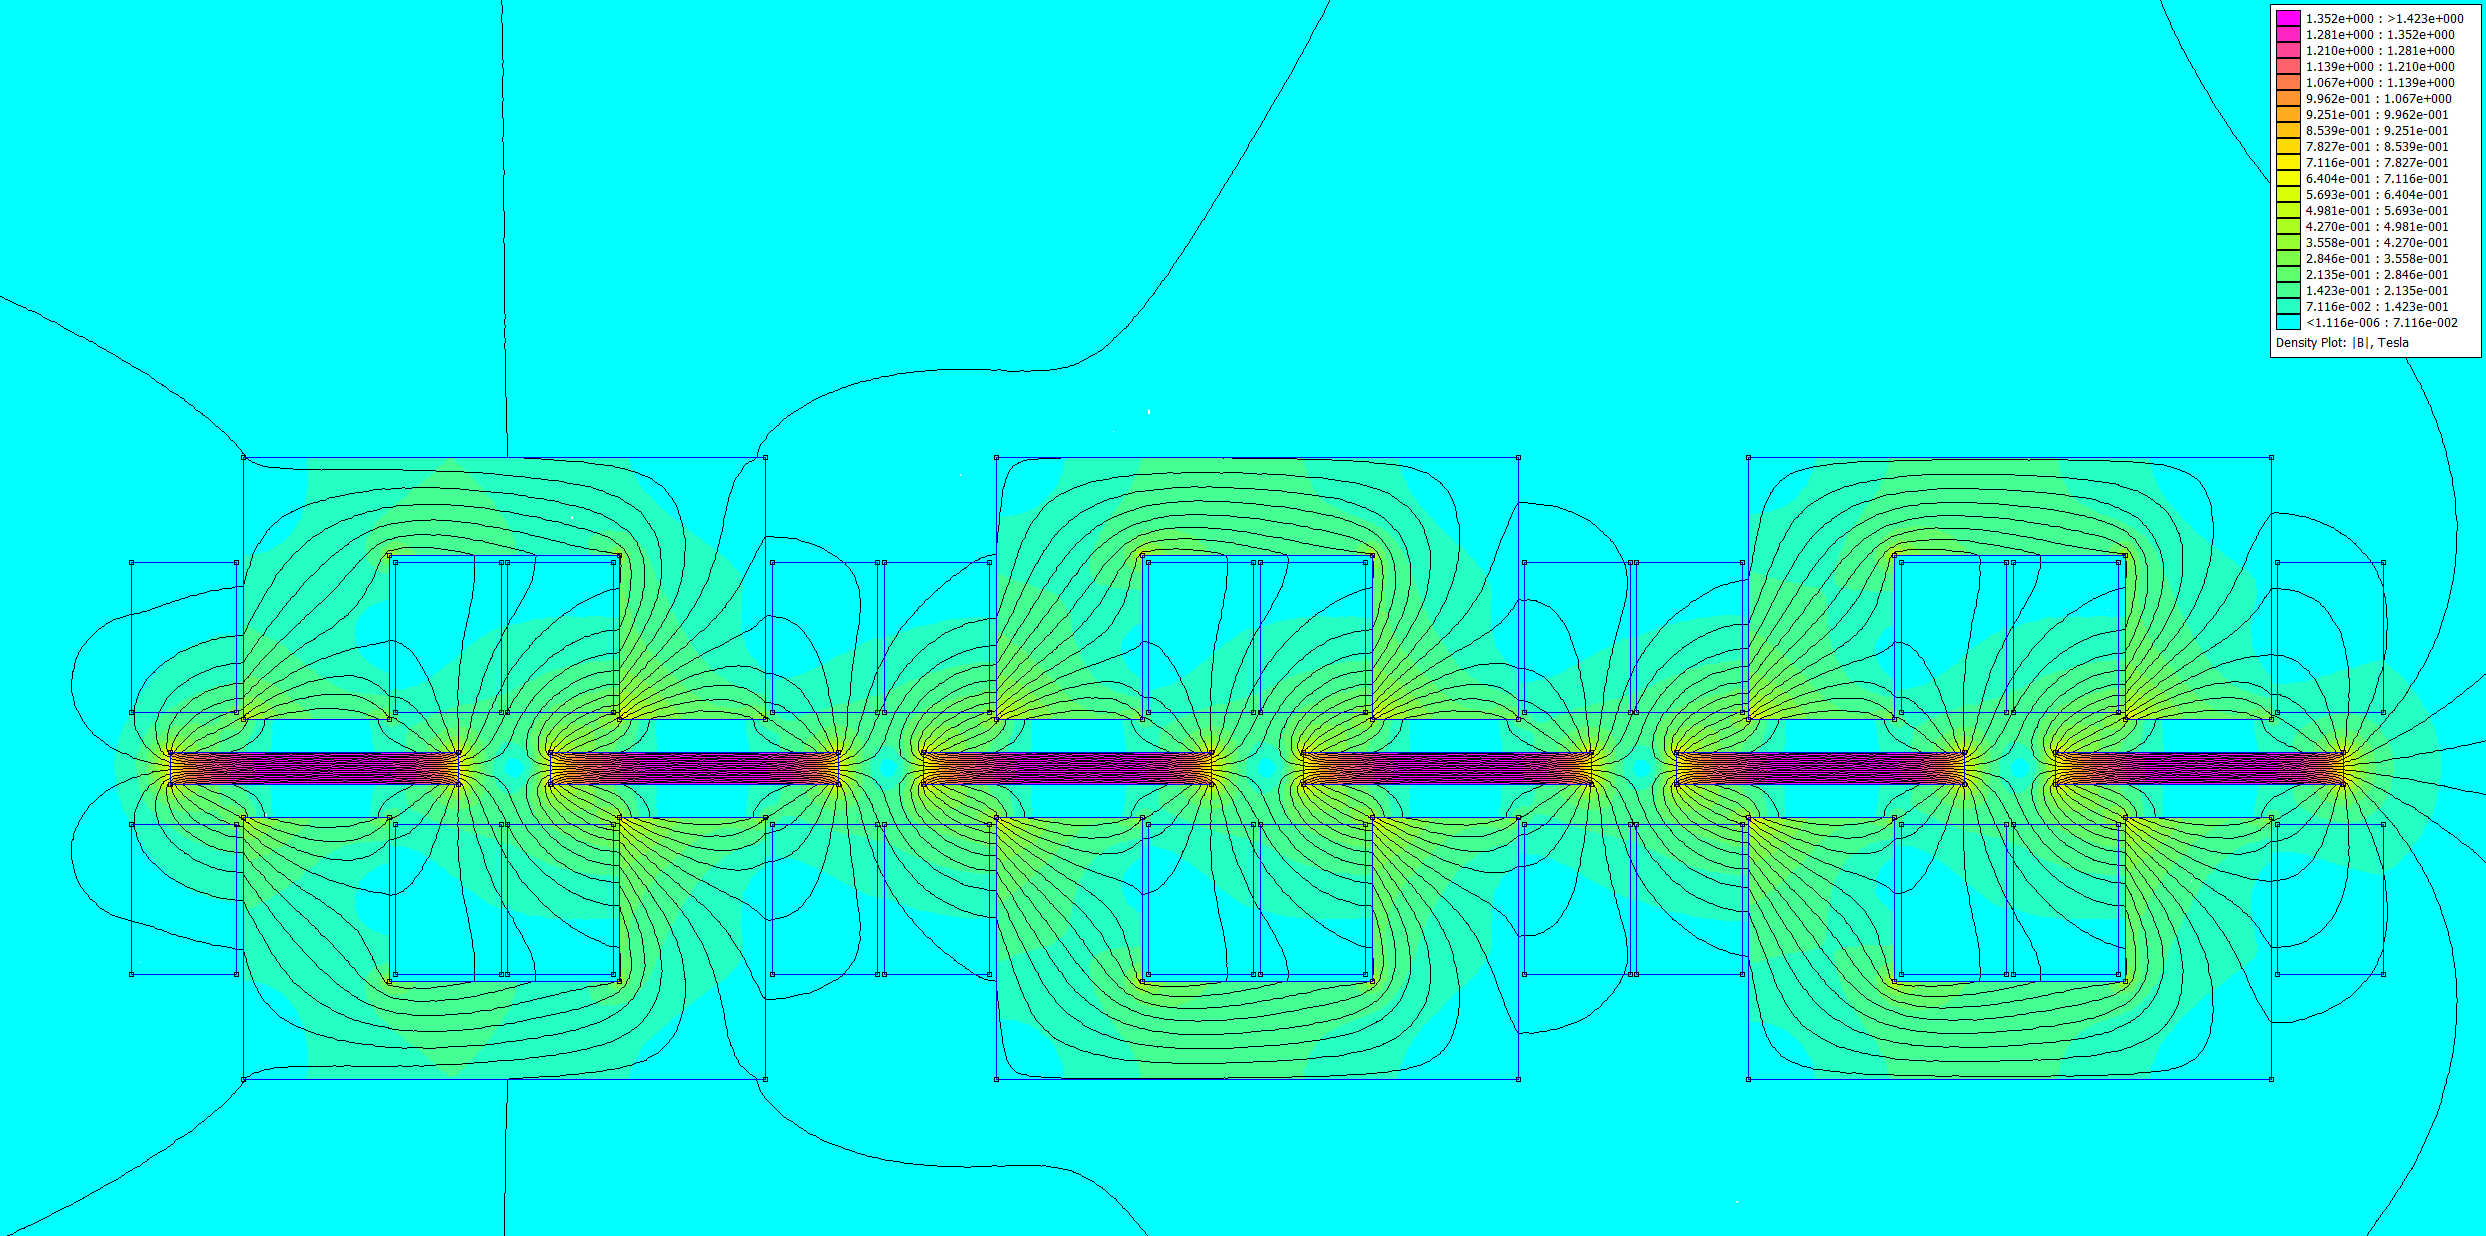
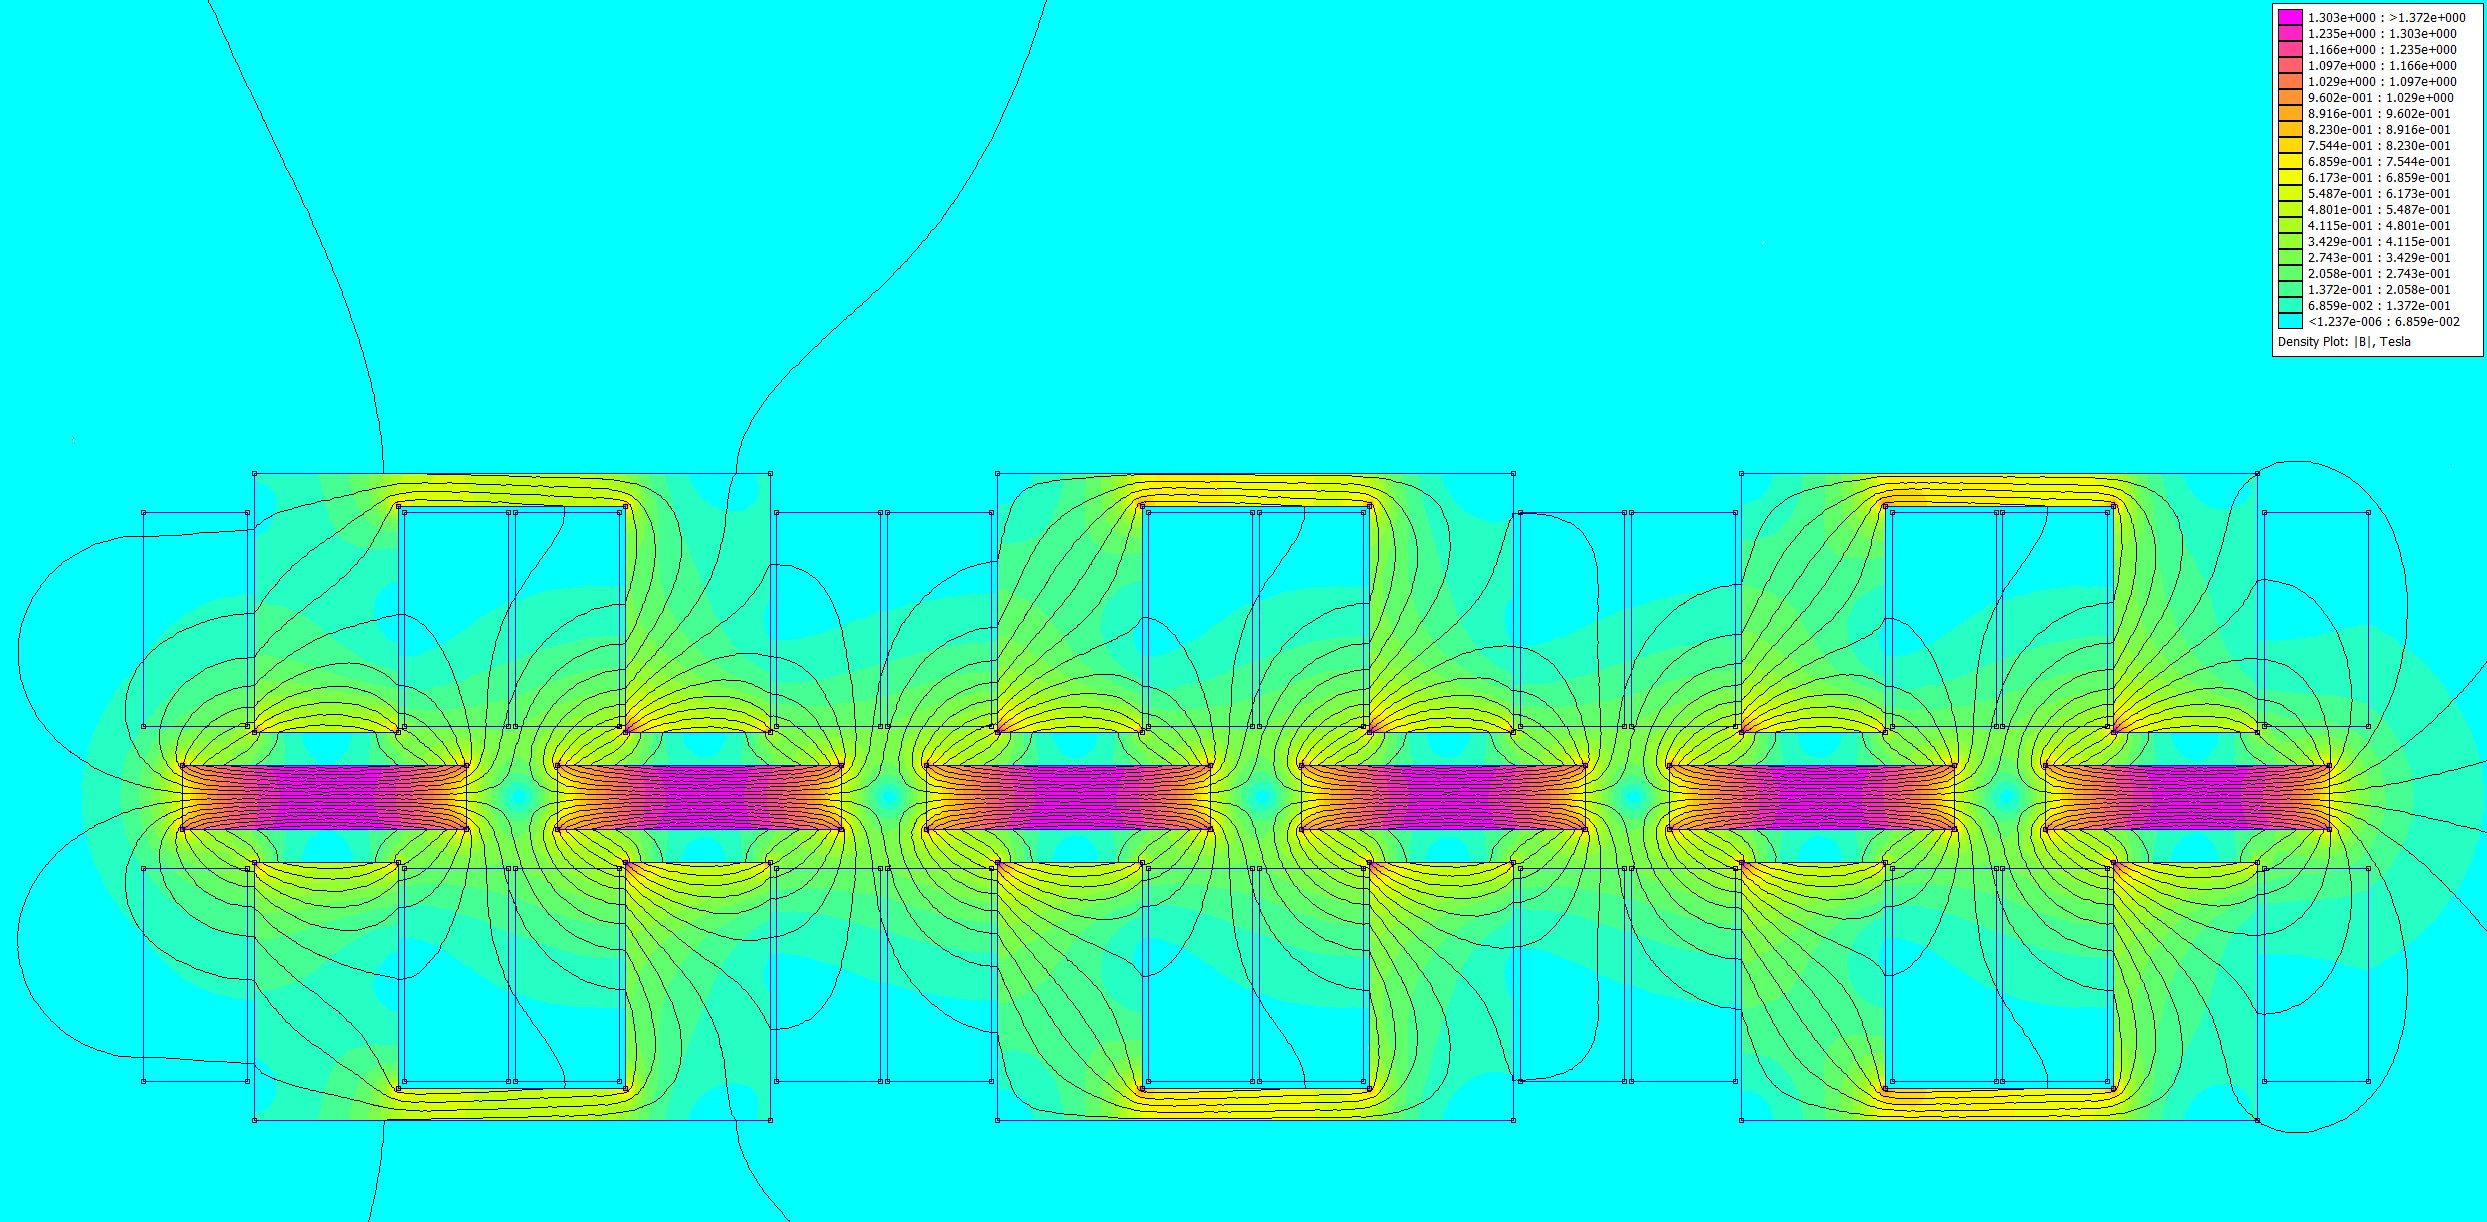
Relevant coil weight calculation via turns instead of solid cube

diff --git a/c_magnets.py b/c_magnets.py
@@ -11,6 +11,15 @@ def number_of_turns(w, h, d):
     h_t = math.floor(h/d)
     return w_t * h_t
 
+def weight_coil(ro, d_wire, n_turns, h_leg, ch, cv, depth):
+    area_wire = n_turns * math.pi * (d_wire * d_wire / 4)
+    area_solid = ch * cv
+    fill_coef = area_wire / area_solid
+    area_solid_cs = ( ((h_leg + (2*ch)) * (depth+ 2*ch)) - (h_leg * depth) )
+    area_wire_cs = area_solid_cs * fill_coef
+    weight = area_wire_cs * cv * ro / 1000
+    return weight
+
 
 def c_block_geometry(V, H, h_leg, v_leg, gv, gh, h_mid, cv, ch, mh, mv, gap, gap_m):
     # In local coordinates, origin - left bottom
@@ -242,6 +251,7 @@ def main(data):
     femm.mi_selectrectangle(- x_m,y_m,x_m,- y_m,4)
     femm.mi_mirror2(x_m, - y_m, x_m, y_m,2)
     femm.mi_clearselected()
+
     femm.mi_selectrectangle(- x_m,y_m,x_m,- y_m,4)
     femm.mi_mirror2(- x_m, - y_m, - x_m, y_m,1)
     femm.mi_clearselected()
@@ -278,16 +288,16 @@ def main(data):
 
     m_right_1 = list(copy.deepcopy(cbg["magn_right_label"]))
     m_right_1[0] = x_m + (x_m - m_right_1[0])
+    femm.mo_selectblock(*m_right_1)
     m_right_2 = list(copy.deepcopy(cbg["magn_left_label"]))
     m_right_2[0] = x_m + x_m + abs(m_right_2[0])
-    femm.mo_selectblock(*m_right_1)
     femm.mo_selectblock(*m_right_2)
 
     m_left_1 = copy.deepcopy(m_right_1)
     m_left_1[0] = - m_left_1[0]
+    femm.mo_selectblock(*m_left_1)
     m_left_2 = copy.deepcopy(m_right_2)
     m_left_2[0] = - m_left_2[0]
-    femm.mo_selectblock(*m_left_1)
     femm.mo_selectblock(*m_left_2)
 
 
@@ -296,9 +306,14 @@ def main(data):
     magnet_on_wheel_weight =  data["depth"] * data["mh"] * data["mv"] * data["magnet_density"] / 1000
     U_core_weight =  ((data["depth"] * data["V"] * data["H"]) - 
         (data["depth"] * data["v_leg"] * data["h_mid"])) * data["core_density"] / 1000
-    coil_weight = ((
-        (data["h_leg"] + (2*data["gh"]) + (2*data["ch"])) * (data["depth"] + (2*data["gh"]) + (2*data["ch"]))) -
-        ((data["h_leg"] + (2*data["gh"])) * (data["depth"] + (2*data["gh"])))) * data["cv"] * data["coil_mat_density"] / 1000
+
+    coil_weight = weight_coil(ro=data["coil_mat_density"], 
+        d_wire=data["coil_diameter"], 
+        n_turns=data["n_turns"], 
+        h_leg=data["h_leg"], 
+        ch=data["ch"],
+        cv=data["cv"],
+        depth=data["depth"])
 
     # temp of coil in 1 seconds
     delta_T_1sec_P_out = (P_out / (coil_weight * data["coil_mat_specific_heat"]))
@@ -334,7 +349,7 @@ def main(data):
     result["Weights"] = {
         "magnet_on_wheel_weight (for 32 spokes) (kg)": magnet_on_wheel_weight * (32 - 1),
         "U_core_weight (6 items) (kg)": U_core_weight * 6,
-        "coil_weight (12 items) (kg) calculated as solid block": coil_weight * 12,
+        "coil_weight (12 items) (kg) calculated by turns": coil_weight * 12,
         "total witout battery (kg)": (magnet_on_wheel_weight * (32 - 1)) + (U_core_weight * 6) + (coil_weight * 12)
     }
 
@@ -369,14 +384,14 @@ if __name__ == "__main__":
     data["V"] = 40
     data["H"] = 79.8
     data["h_leg"] = 22.3 # (data["H"] / 4)
-    data["v_leg"] = 25
+    data["v_leg"] = 35
     data["gv"] = 1.0
     data["gh"] = 1.0
     data["h_mid"] = data["H"] - (2 * data["h_leg"])
     data["cv"] = data["v_leg"] - (2*data["gv"])
     data["ch"] = (data["h_mid"] - (3*data["gh"])) / 2
     data["mh"] = 44
-    data["mv"] = 5
+    data["mv"] = 10
     data["gap"] = 5
     data["gap_m"] = 14 # data["gh"]
 
@@ -391,6 +406,7 @@ if __name__ == "__main__":
     # data["coil_material"] = "0.4mm"
     # data["coil_material"] = "0.5mm"
     data["coil_material"] = "0.63mm"
+    data["coil_diameter"] = 0.63
     # data["coil_material"] = "0.8mm"
     # data["coil_material"] = "1mm"
     # data["coil_material"] = "1.25mm"
@@ -421,7 +437,7 @@ if __name__ == "__main__":
     #                     0.8, # dwire Diameter of each of the wire’s constituent strand in millimeters.
     # ]]
 
-    data["n_turns"] = number_of_turns(data["ch"], data["cv"], 0.63)
+    data["n_turns"] = 900 # number_of_turns(data["ch"], data["cv"], data["coil_diameter"]) # 900
 
 
     data["magnet_density"] = 7.5 / 1000

diff --git a/README.md b/README.md
@@ -24,20 +24,21 @@ Input data:
     "V": 40,
     "H": 79.8,
     "h_leg": 22.3,
-    "v_leg": 25,
+    "v_leg": 35,
     "gv": 1.0,
     "gh": 1.0,
     "h_mid": 35.199999999999996,
-    "cv": 23.0,
+    "cv": 33.0,
     "ch": 16.099999999999998,
     "mh": 44,
-    "mv": 5,
+    "mv": 10,
     "gap": 5,
     "gap_m": 14,
     "air_material": "Air",
     "core_material": "416 Stainless Steel",
     "magnet_material": "N52",
     "coil_material": "0.63mm",
+    "coil_diameter": 0.63,
     "n_turns": 900,
     "magnet_density": 0.0075,
     "core_density": 0.0078,
@@ -51,21 +52,21 @@ Results:
         "V_drop": 47.34,
         "I": 1.25,
         "P": 59.17,
-        "Fx": 138.75,
-        "delta T for 60sec 1 coil (vacuum)": 15.41
+        "Fx": 252.08,
+        "delta T for 60sec 1 coil (vacuum)": 21.28
     },
     "Limited by battery": {
         "V": 48,
         "I": 1.25,
         "P": 60.0,
-        "Fx": 140.69,
-        "delta T for 60sec 1 coil (vacuum)": 15.62
+        "Fx": 255.59,
+        "delta T for 60sec 1 coil (vacuum)": 21.58
     },
     "Weights": {
-        "magnet_on_wheel_weight (for 32 spokes) (kg)": 1.62,
-        "U_core_weight (6 items) (kg)": 3.43,
-        "coil_weight (12 items) (kg) calculated as solid block": 7.18,
-        "total witout battery (kg)": 12.23
+        "magnet_on_wheel_weight (for 32 spokes) (kg)": 3.24,
+        "U_core_weight (6 items) (kg)": 2.91,
+        "coil_weight (12 items) (kg) calculated by turns": 5.2,
+        "total witout battery (kg)": 11.35
     }
 }
 
